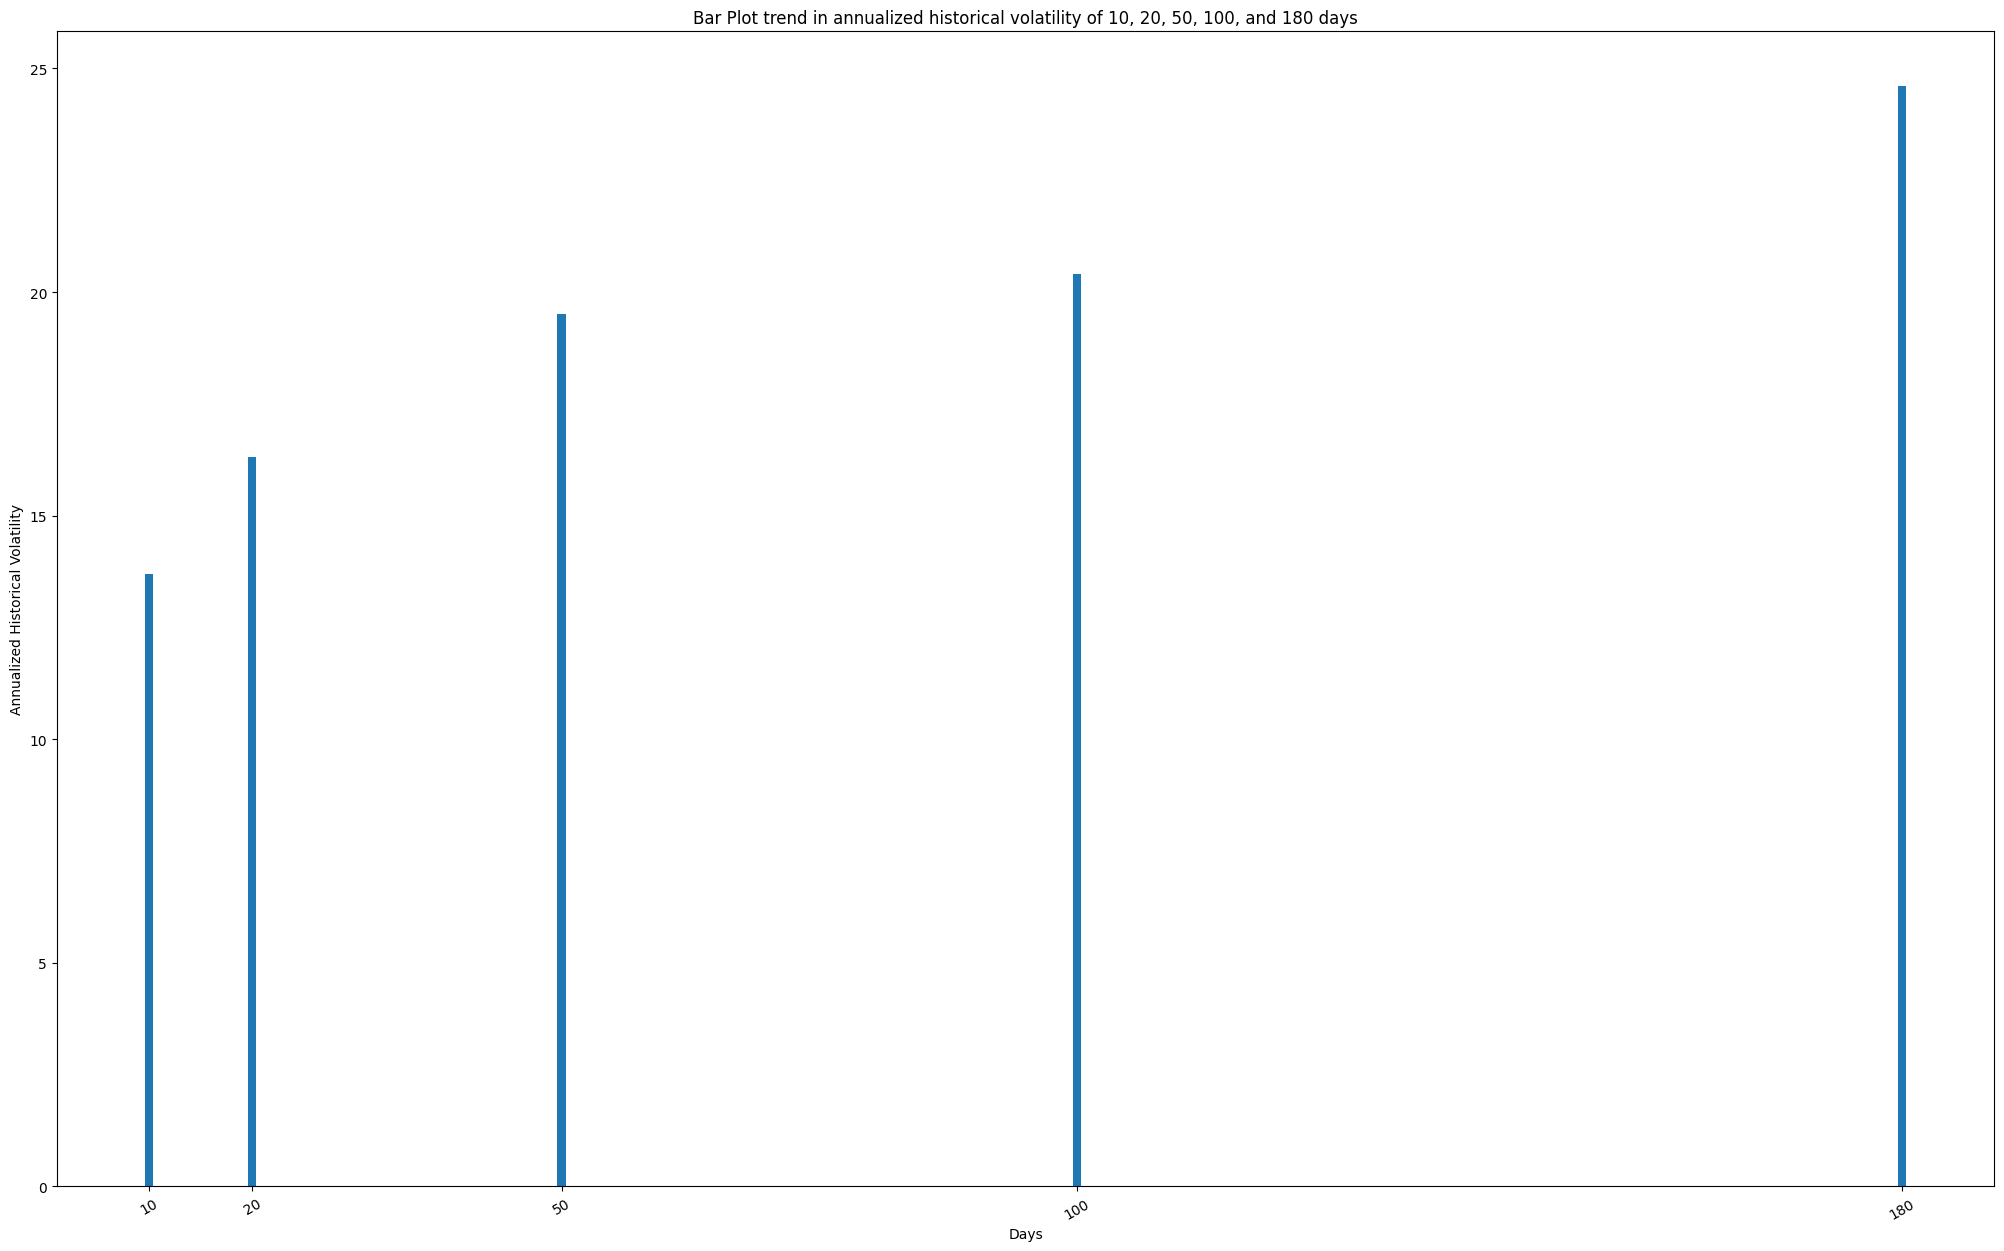
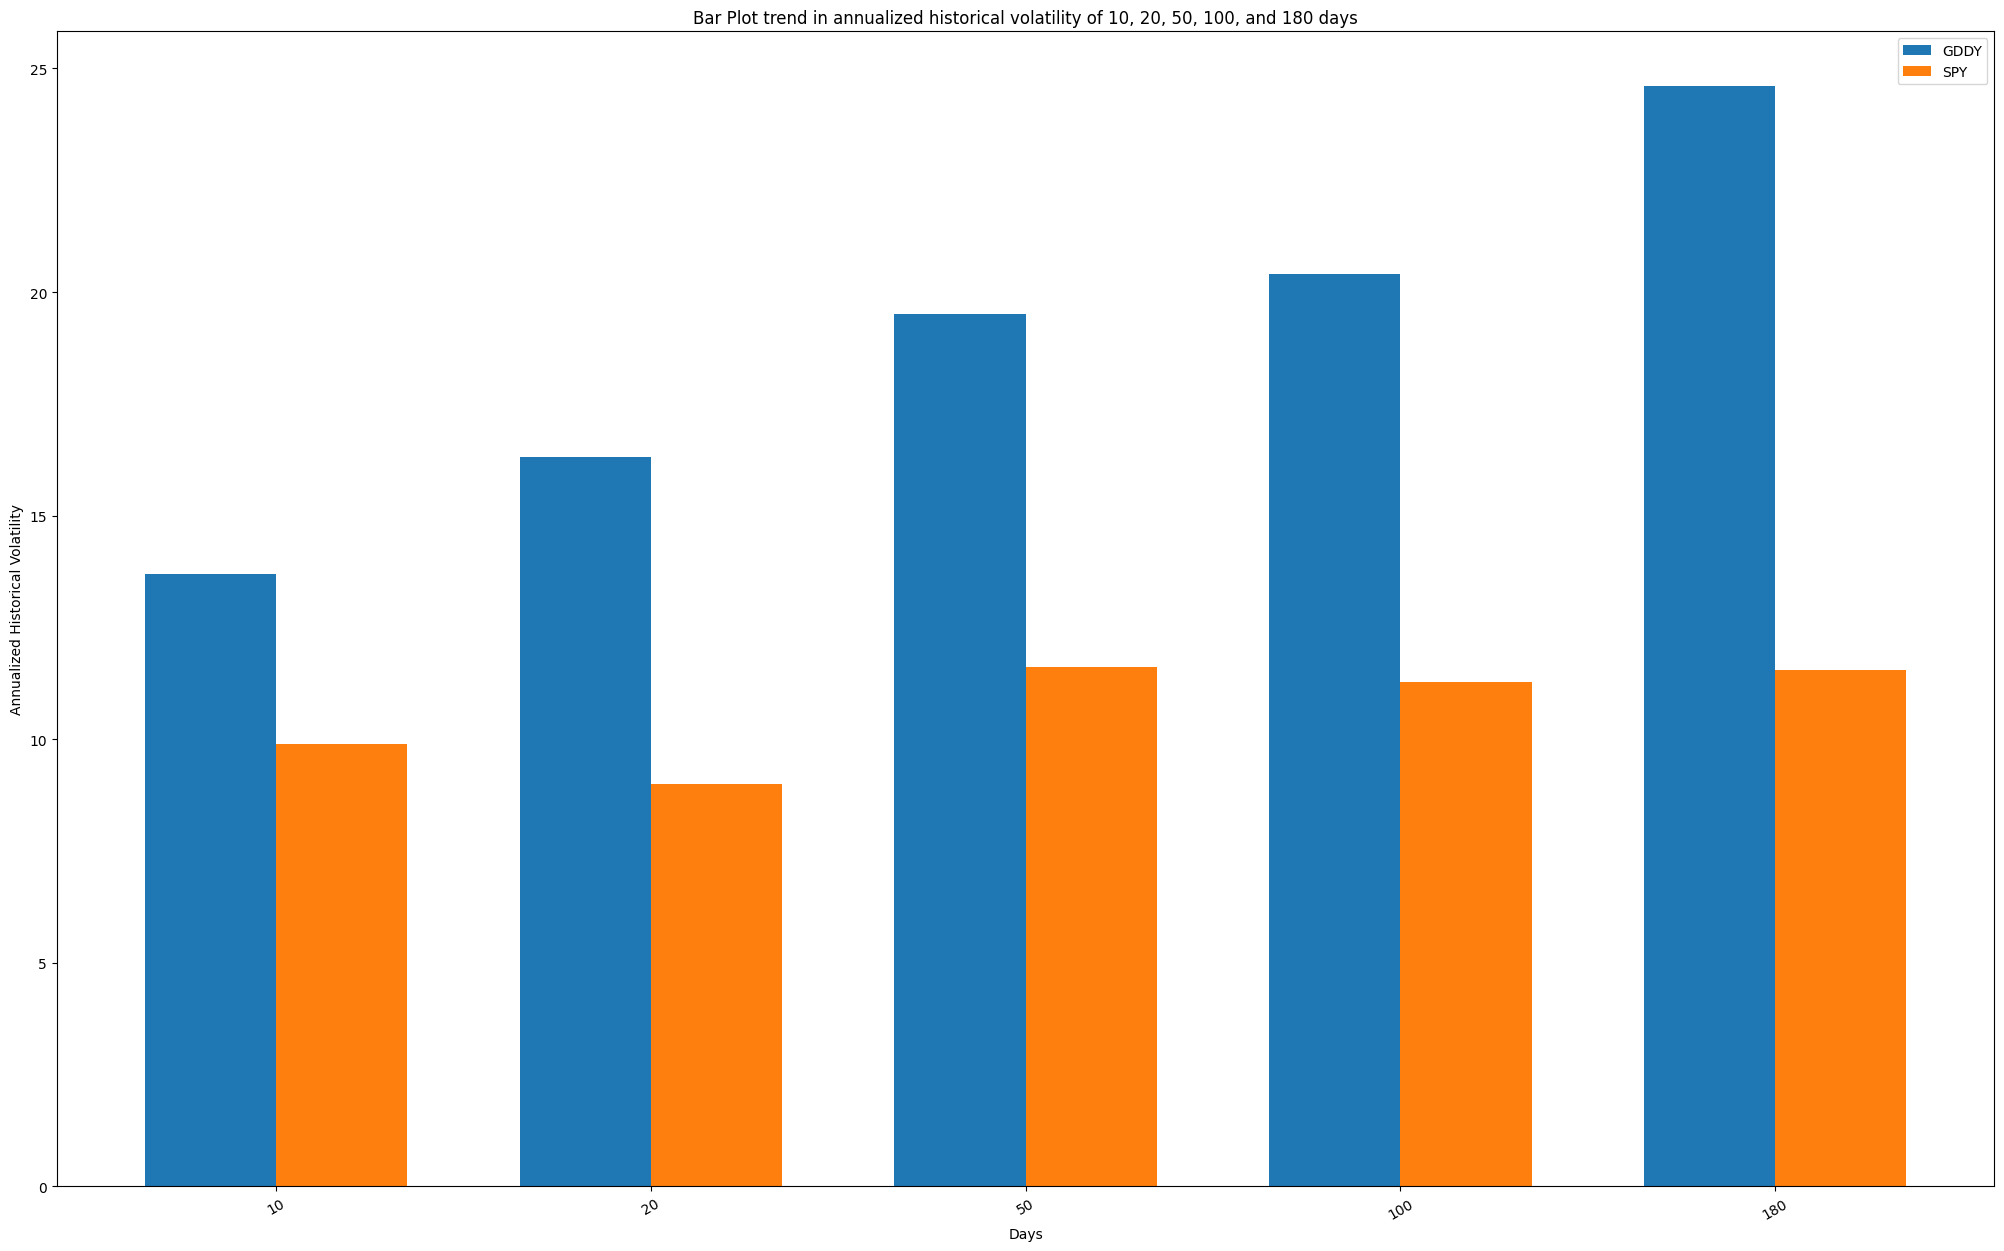
added historical volatility comparison against SPY

diff --git a/plothistoricalvolatility.py b/plothistoricalvolatility.py
@@ -1,23 +1,38 @@
 import matplotlib.pyplot as plt
+from yahoo_fin import stock_info as si # need this to plot against SPY
+import numpy as np
 
-def plot_change_in_historical_volatility(stock_ticker, hist_vola_dict):
+def plot_change_in_historical_volatility(stock_ticker, hist_vola_dict, volatility_info_dict_SPY):
     fig, ax = plt.subplots()  # Unpack fig and ax variables correctly
 
     # Set the figure size
     fig.set_size_inches(25, 15)
 
     keys = list(hist_vola_dict.keys())
-    values = [val[1] for val in hist_vola_dict.values()]
+    values_stock = [val[1] for val in hist_vola_dict.values()]
+    values_spy = [val[1] for val in volatility_info_dict_SPY.values()]
 
-    ax.bar(keys, values)
+    bar_width = 0.35
+    indices = np.arange(len(keys))
+
+    bars1 = ax.bar(indices, values_stock, bar_width, label=stock_ticker)
+    bars2 = ax.bar(indices + bar_width, values_spy, bar_width, label='SPY')
+
+
+    # ax.bar(keys, values)
 
     ax.set_xlabel('Days')
     ax.set_ylabel('Annualized Historical Volatility')
     ax.set_title('Bar Plot trend in annualized historical volatility of 10, 20, 50, 100, and 180 days')
-    
-    ax.set_xticks(keys)  # Set x-axis ticks
 
-    ax.set_xticklabels(keys, rotation=30)  # Set x-axis tick labels with rotation
+    ax.set_xticks(indices + bar_width / 2)
+    ax.set_xticklabels(keys, rotation=30)
+
+    ax.legend()
+    
+    # ax.set_xticks(keys)  # Set x-axis ticks
+
+    # ax.set_xticklabels(keys, rotation=30)  # Set x-axis tick labels with rotation
 
     figure_file_title = "./screeneroutput/" + stock_ticker + "  annualized historical volatility trend"
     plt.savefig(figure_file_title, bbox_inches='tight')

diff --git a/app.py b/app.py
@@ -82,14 +82,17 @@ for item in ranked_stocks:
     print("**** Start Historical Volatility Computation ****\n")
     print("**** **** **** *****  \n")
     volatility_info_dict = dict()
+    volatility_info_dict_SPY = dict()
     for n_day_index in n_day_hist_volatility_list:
         # not caring about capturing returned value
         # print statement in the function will print
         # if you need to process data then modify the return here
         volatility_info_list = compute_historical_volatility(item, n_day_index)
+        volatility_info_list_SPY = compute_historical_volatility("SPY", n_day_index)
         volatility_info_dict[n_day_index] = volatility_info_list
+        volatility_info_dict_SPY[n_day_index] = volatility_info_list_SPY
     
-    plot_change_in_historical_volatility(item, volatility_info_dict)
+    plot_change_in_historical_volatility(item, volatility_info_dict, volatility_info_dict_SPY)
 
 
 
